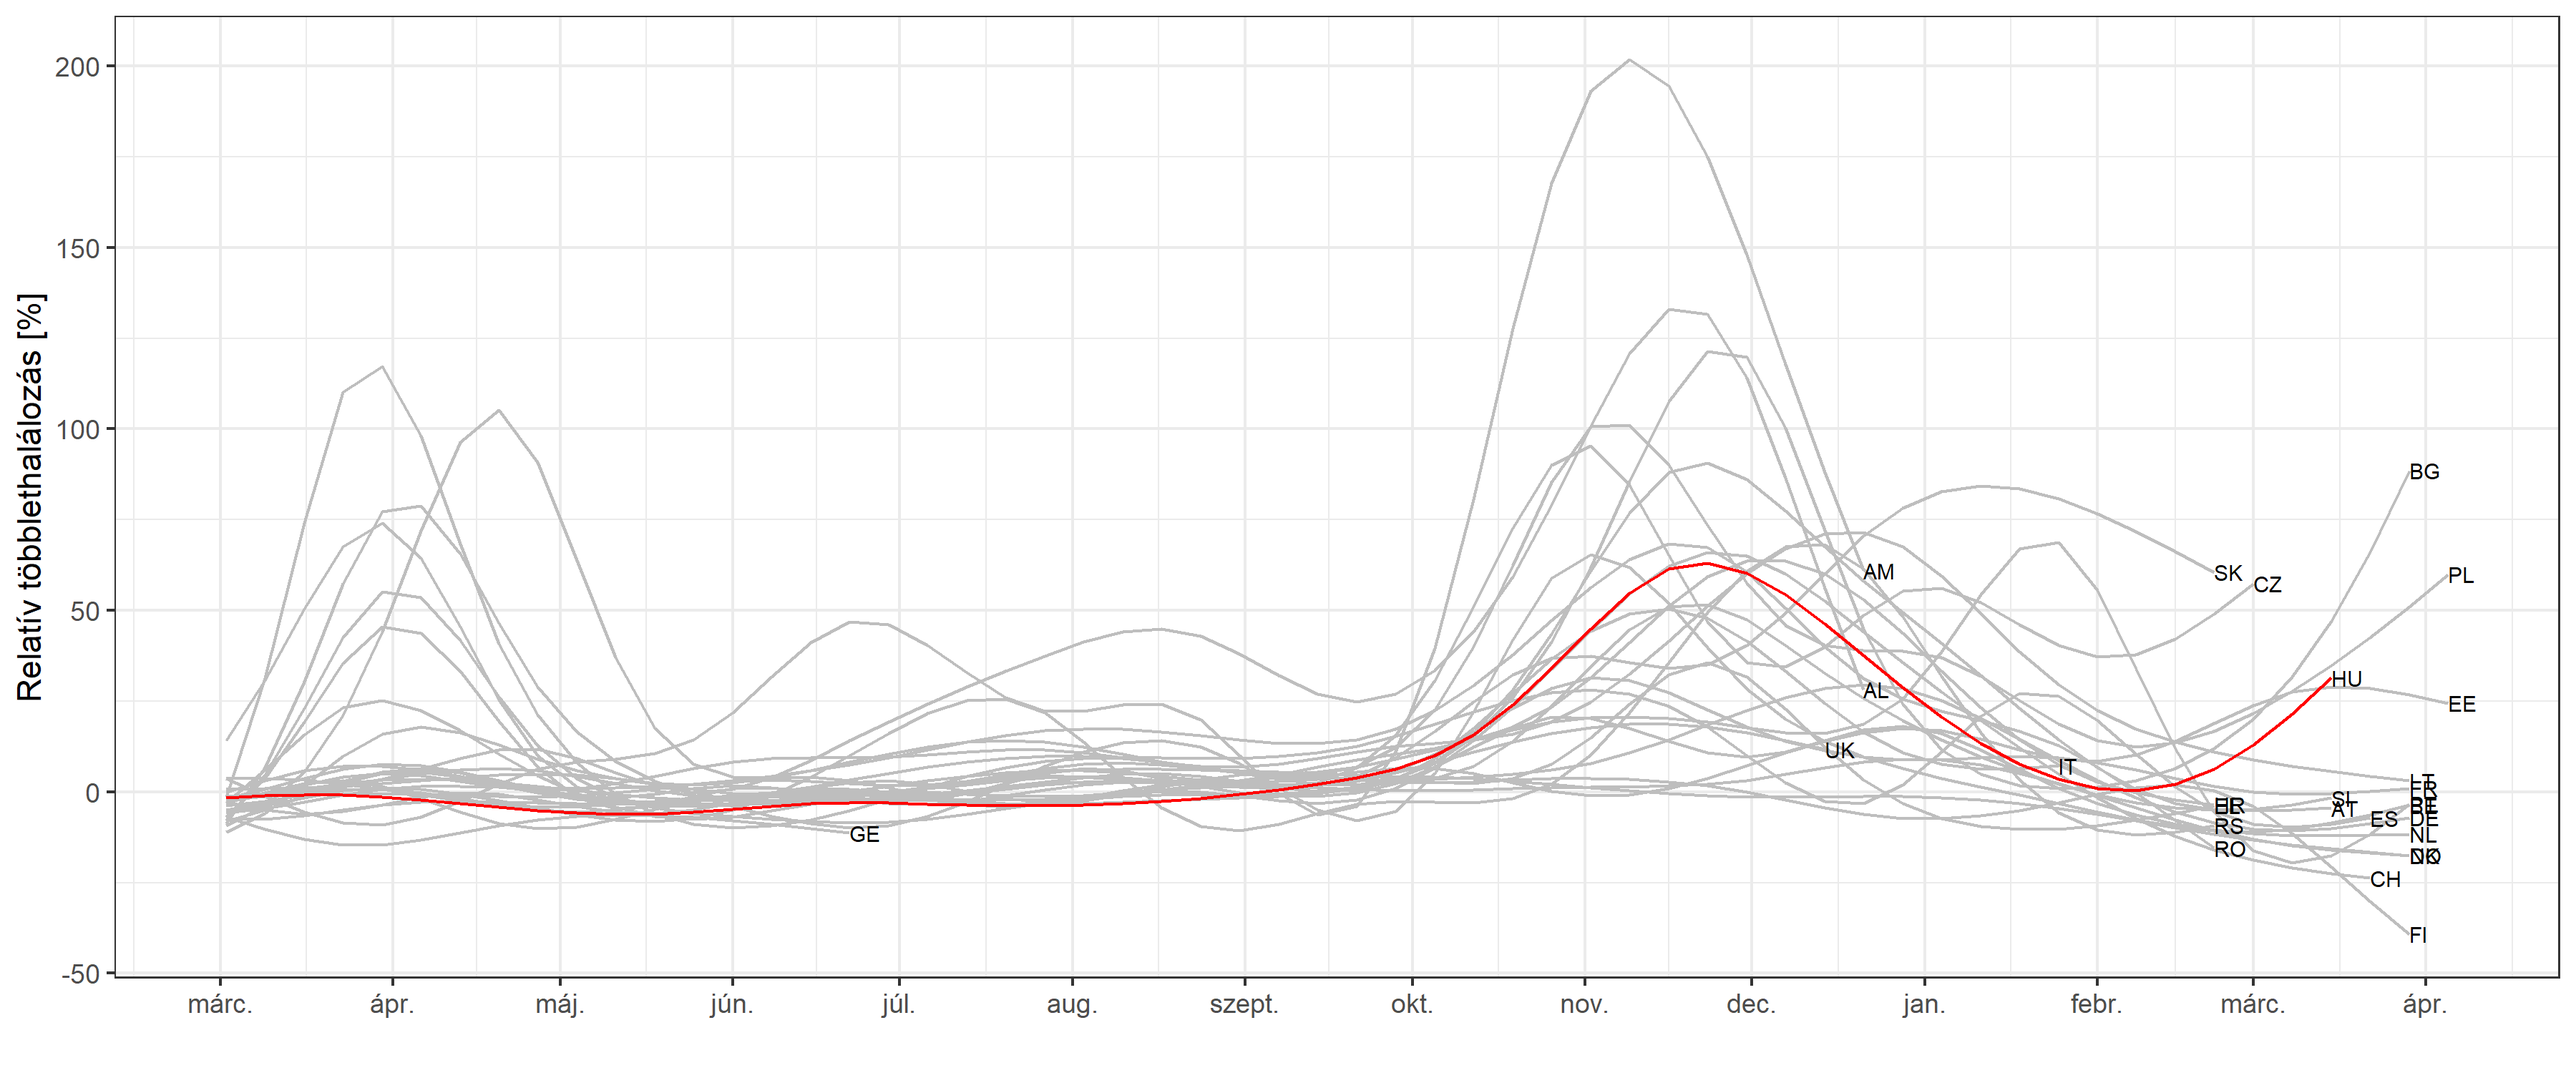
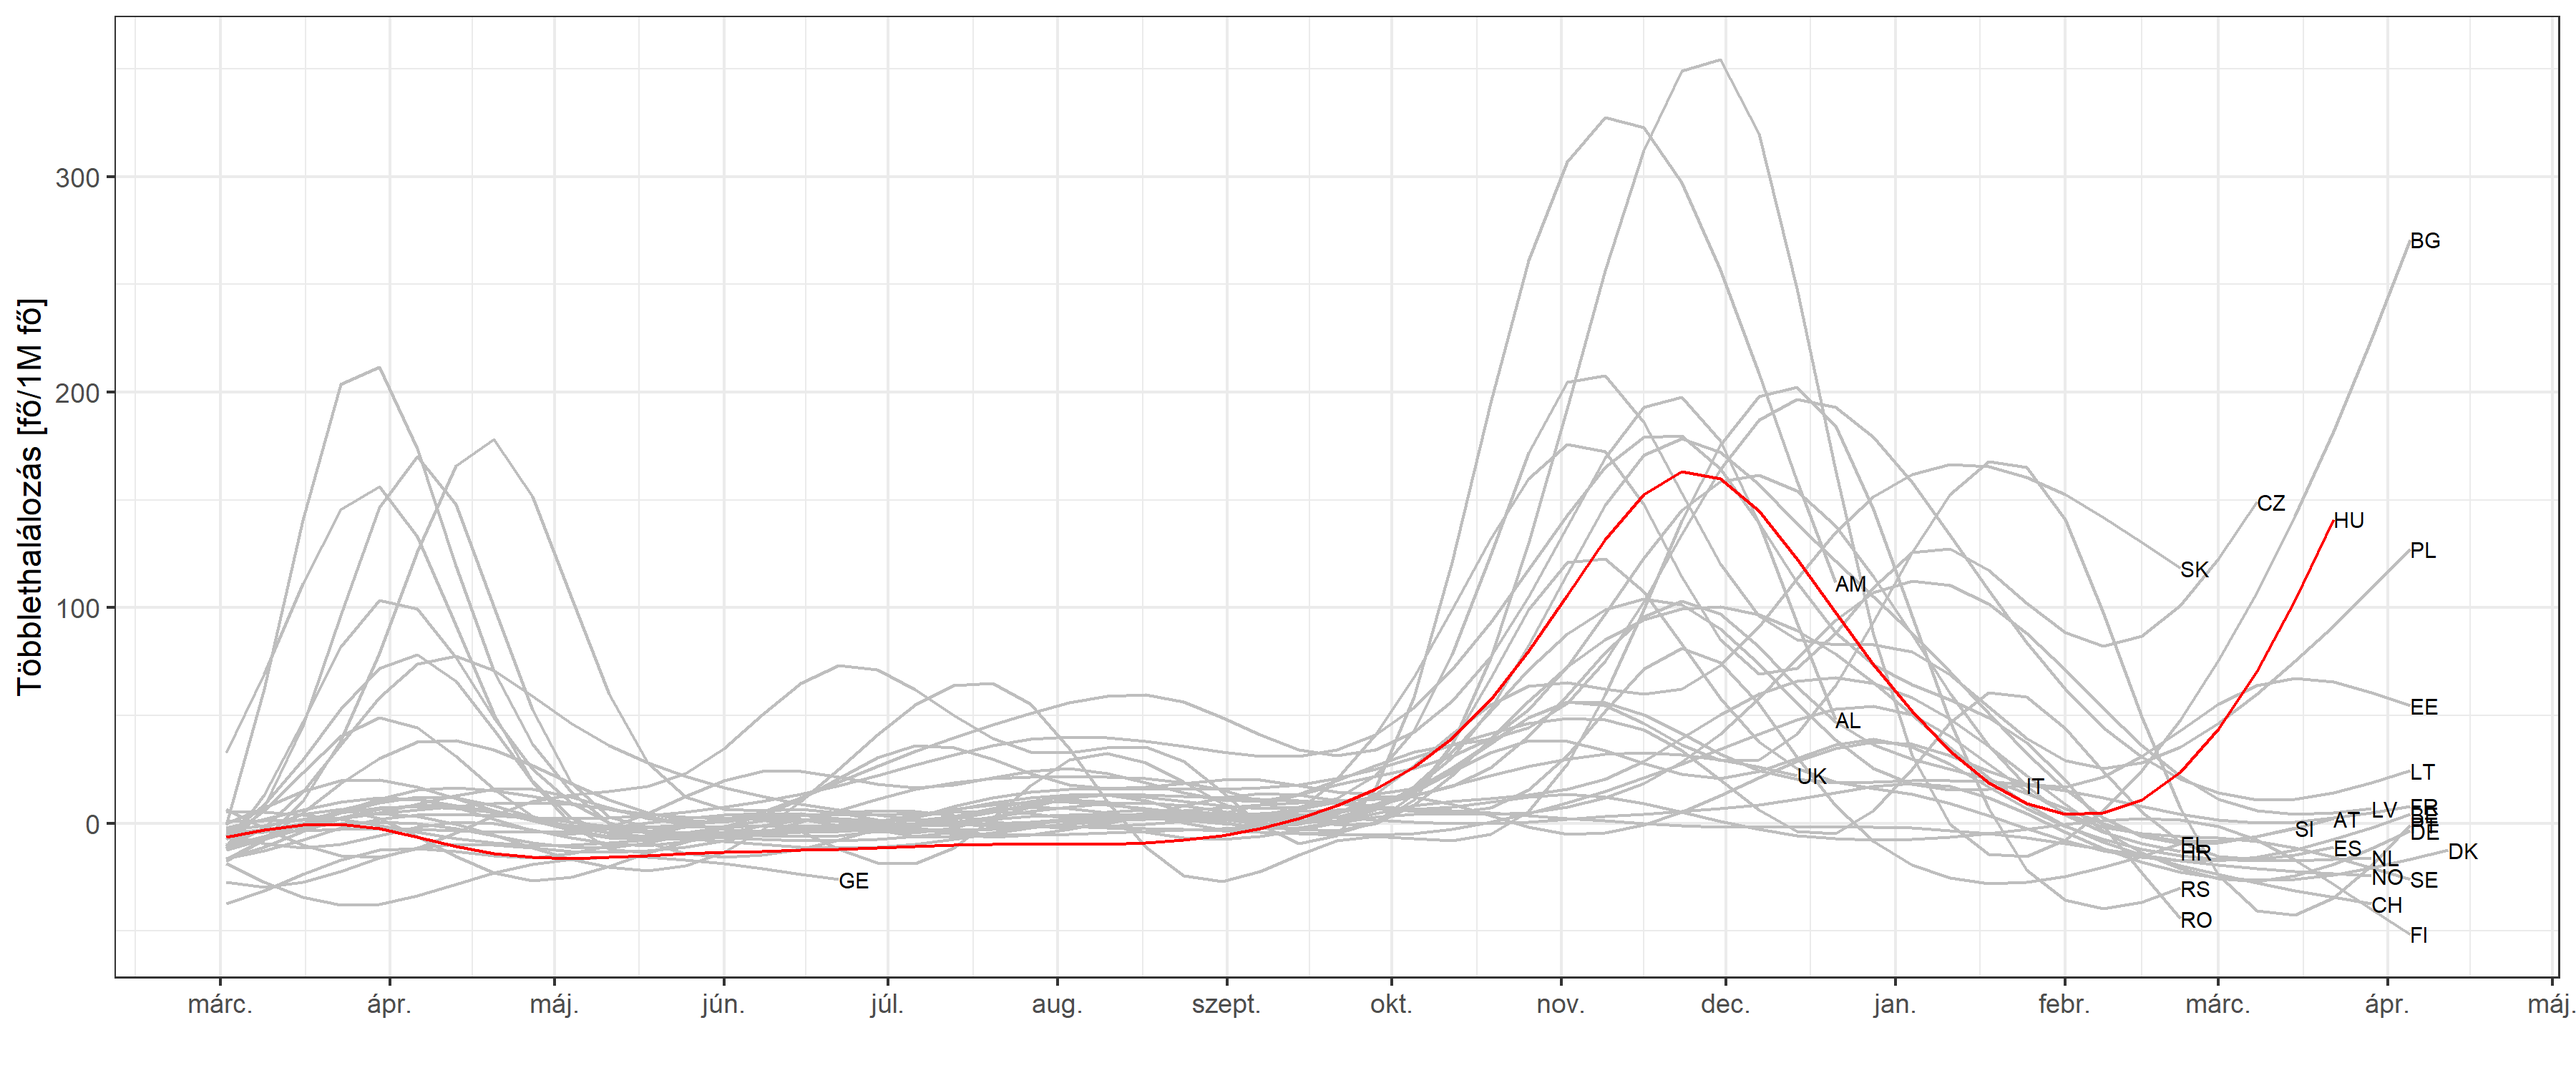
fixes #1

diff --git a/README.md b/README.md
@@ -101,22 +101,20 @@ rögzítve, hogy milyen eljárásrend határozza meg, hogy ezen besorolás
 szerint ki minősül koronavírusos halottnak. Tovább rontja a helyzetet,
 hogy elhangzott ezzel kapcsolatban egy nyilvánvaló nyelvbotlás,
 miszerint „valamennyi olyan elhunytat, akinél a betegség időtartama
-alatt, vagy előtte bármikor
-!
-pozitív személynek regisztráltak, tehát készült nála laboratóriumi
-vizsgálat, ami pozitivitást mutatott, mindenkit beszámolunk az elhunytak
-közé". Ez természetesen – szerencsére – nem igaz, hiszen ha szó szerint
-vennénk, akkor valakit, aki tavaly áprilisban megbetegedett majd
-meggyógyult, majd ma elüti egy autó, azt elvileg koronavírusos
-halottként kellene elszámolni. (Most olyan apróságokról nem beszélve,
-hogy így a koronavírus halálozási aránya, tehát, hogy a fertőzöttek
-mekkora hányada hal bele a betegségbe, garantáltan 100 százalék lenne…)
-Erről természetesen nincs szó, a gyakorlatban senki sem fog törődni
-azzal, hogy egy éve az elgázoltnak volt egy pozitív tesztje, de az
-nagyon fontos lenne, hogy közzé legyen téve, hogy elvileg milyen
-szempontok döntenek abban a kérdésben, hogy kit lehet koronavírusos
-elhunytnak minősíteni. Az európai járványügyi szervezet, az ECDC például
-[azt az
+alatt, vagy előtte bármikor \[!\] pozitív személynek regisztráltak,
+tehát készült nála laboratóriumi vizsgálat, ami pozitivitást mutatott,
+mindenkit beszámolunk az elhunytak közé". Ez természetesen – szerencsére
+– nem igaz, hiszen ha szó szerint vennénk, akkor valakit, aki tavaly
+áprilisban megbetegedett majd meggyógyult, majd ma elüti egy autó, azt
+elvileg koronavírusos halottként kellene elszámolni. (Most olyan
+apróságokról nem beszélve, hogy így a koronavírus halálozási aránya,
+tehát, hogy a fertőzöttek mekkora hányada hal bele a betegségbe,
+garantáltan 100 százalék lenne…) Erről természetesen nincs szó, a
+gyakorlatban senki sem fog törődni azzal, hogy egy éve az elgázoltnak
+volt egy pozitív tesztje, de az nagyon fontos lenne, hogy közzé legyen
+téve, hogy elvileg milyen szempontok döntenek abban a kérdésben, hogy
+kit lehet koronavírusos elhunytnak minősíteni. Az európai járványügyi
+szervezet, az ECDC például [azt az
 ajánlást](https://www.ecdc.europa.eu/en/covid-19/surveillance/surveillance-definitions)
 fogalmazza meg, hogy nem koronavírus a halálok akkor, ha (1) van
 egyértelmű, alternatív, a koronavírustól független mechanizmussal ható
@@ -295,7 +293,7 @@ rosszul.
 
 ## Az európai többlethalálozási adatok elemzése
 
-A számítások aktualizálásának dátuma: 2021-04-19.
+A számítások aktualizálásának dátuma: 2021-04-24.
 
 Elsőként betöltjük a szükséges könyvtárakat:
 
@@ -317,15 +315,49 @@ RawData$year <- as.numeric(substring(RawData$time, 1, 4))
 RawData$week <- as.numeric(substring(RawData$time, 6, 7))
 ```
 
-Kidobjuk a 2002 előtti adatokat, és Svédországot valamint Lettországot,
-így nem marad 99-es (azaz héthez nem rendelt) mortalitási adat:
+A 99-es hét jelenti azokat a halálokat, amiket a kérdéses ország nem
+héthez rendelten jelentett. Ilyen csak kevés országnál fordul elő, és
+ott sem sok halálesettel (a táblázat százalékban adja meg, hogy az
+összes adott évi haláleset mekkora hányada volt 99-es, azaz héthez nem
+rendelt az adott országban):
 
 ``` r
-RawData <- RawData[year>=2002&!geo%in%c("SE", "LV")]
-sum(RawData$week==99)
+knitr::kable(dcast(RawData[,.(values[week==99]/sum(values)*100),.(geo, year)],
+                   year ~ geo, value.var = "V1"), digits = 2)
 ```
 
-    ## [1] 0
+| year |  HU |   LV |   SE |
+|-----:|----:|-----:|-----:|
+| 2000 |   0 | 0.28 | 1.61 |
+| 2001 |   0 | 0.22 | 1.64 |
+| 2002 |  NA | 0.19 | 1.61 |
+| 2003 |  NA | 0.13 | 1.55 |
+| 2004 |  NA | 0.06 | 1.24 |
+| 2005 |  NA | 0.10 | 0.90 |
+| 2006 |  NA | 0.09 | 0.82 |
+| 2007 |  NA | 0.10 | 0.71 |
+| 2008 |  NA | 0.11 | 0.57 |
+| 2009 |  NA | 0.06 | 0.59 |
+| 2010 |  NA | 0.07 | 0.45 |
+| 2011 |  NA | 0.05 | 0.48 |
+| 2012 |  NA | 0.06 | 0.48 |
+| 2013 |  NA |   NA | 0.51 |
+| 2014 |  NA |   NA | 0.55 |
+| 2015 |  NA |   NA | 1.04 |
+| 2016 |  NA |   NA | 2.17 |
+| 2017 |  NA |   NA | 2.43 |
+| 2018 |  NA |   NA | 2.73 |
+| 2019 |  NA |   NA | 2.95 |
+| 2020 |  NA |   NA | 2.67 |
+| 2021 |  NA |   NA | 2.88 |
+
+Éppen ezért – hogy ne kelljen emiatt országokat elhagynunk – egyszerűen
+szétosztjuk egyenletesen ezeket az eseteket a hetek között:
+
+``` r
+RawData[ , values := round(values*sum(values)/sum(values[week!=99])), .(geo, year)]
+RawData <- RawData[week!=99]
+```
 
 Dátumként az adott hét első napját használjuk; fontos, hogy az ISO 8601
 szerinti hétbesorolást használja az Eurostat, amit az `ISOweek` csomag
@@ -426,7 +458,7 @@ ggplot(res, aes(x = date, y = excess/population*1e6, group = geo, label = geo)) 
   theme_bw() + directlabels::geom_dl(method = list("last.points", cex = 0.6))
 ```
 
-![](README_files/figure-gfm/unnamed-chunk-12-1.png)<!-- -->
+![](README_files/figure-gfm/unnamed-chunk-13-1.png)<!-- -->
 
 Az aktuális többlethalálozás (relatív mutató, korábbi adatokra vetítve):
 
@@ -438,7 +470,7 @@ ggplot(res, aes(x = date, y = increase, group = geo, label = geo)) + geom_line(a
   directlabels::geom_dl(method = list("last.points", cex = 0.6))
 ```
 
-![](README_files/figure-gfm/unnamed-chunk-13-1.png)<!-- -->
+![](README_files/figure-gfm/unnamed-chunk-14-1.png)<!-- -->
 
 Látszik, hogy a kétféle relatív mutató között nincs nagy különbség.
 Kicsit direktebben is összevethetjük őket, ha országonként külön-külön
@@ -450,7 +482,7 @@ ggplot(res, aes(x = increase, y = excess/population*1e6)) + geom_line() +
   facet_wrap(~geo) + geom_abline(intercept = 0, slope =  2, alpha = 0.3)
 ```
 
-![](README_files/figure-gfm/unnamed-chunk-14-1.png)<!-- -->
+![](README_files/figure-gfm/unnamed-chunk-15-1.png)<!-- -->
 
 Az ábra az origón átmenő, 2 meredekségű egyenest tünteti fel a
 viszonyítást segítendő. (Miért pont erre illeszkednek jól? E szerint a
@@ -474,7 +506,7 @@ ggplot(res, aes(x = date, y = cumexcess/cumpopulation*1e6, group = geo, label = 
   directlabels::geom_dl(method = list("last.points", cex = 0.6))
 ```
 
-![](README_files/figure-gfm/unnamed-chunk-15-1.png)<!-- -->
+![](README_files/figure-gfm/unnamed-chunk-16-1.png)<!-- -->
 
 Visszatérve a relatív mutatókhoz, érdemes lehet országonként külön-külön
 is ábrázolni, hogy jobban látható legyen, az egyes országok hogyan
@@ -487,7 +519,7 @@ ggplot(res, aes(x = date, y = increase, group = geo)) + geom_line() +
   theme_bw() + facet_wrap(~geo)
 ```
 
-![](README_files/figure-gfm/unnamed-chunk-16-1.png)<!-- -->
+![](README_files/figure-gfm/unnamed-chunk-17-1.png)<!-- -->
 
 Következő lépésben kiszámoljuk a 3 betűs ISO-országkódot, a 2 betűs
 Eurostat kódból, hogy később az OWID adatbázissal lehessen egyesíteni:
@@ -525,7 +557,7 @@ ggplot(melt(res[geo=="HU", .(date, excess = excess/population*1e6,
   scale_x_date(date_breaks = "months", date_labels = "%b")
 ```
 
-![](README_files/figure-gfm/unnamed-chunk-20-1.png)<!-- -->
+![](README_files/figure-gfm/unnamed-chunk-21-1.png)<!-- -->
 
 Vagy a kettő viszonyát (pontosabban annak alakulását időben) az összes
 országra:
@@ -537,7 +569,7 @@ ggplot(res, aes(x = date, y = cumexcess/cumnewdeaths, group = geo)) + geom_line(
   scale_x_date(date_breaks = "2 months", labels = function(z) gsub("^0", "", strftime(z, "%m")))
 ```
 
-![](README_files/figure-gfm/unnamed-chunk-21-1.png)<!-- -->
+![](README_files/figure-gfm/unnamed-chunk-22-1.png)<!-- -->
 
 Ezen az ábrán a többlet és a jelentett halálozás hányadosa látható, a
 piros vonal jelzi a kettő egyenlőségét, tehát a fölötte lévő érték
@@ -556,7 +588,7 @@ ggplot(res[,tail(.SD, 1), .(geo)], aes(x = cumexcess/population*1e6,
   labs(x = "Összesített többlethalálozás [fő/1M fő]", y = "Összesített jelentett halálozás [fő/M fő]")
 ```
 
-![](README_files/figure-gfm/unnamed-chunk-22-1.png)<!-- -->
+![](README_files/figure-gfm/unnamed-chunk-23-1.png)<!-- -->
 
 (Ennél az ábránál és a következőnél nem ugyanaz az időpont van az egyes
 országoknál, hiszen mindegyiknél a saját legrégebbi közölt adata az
@@ -577,7 +609,7 @@ ggplot(res[,.SD[nrow(.SD)-4], .(geo)], aes(x = cumexcess/population*1e6,
   labs(x = "Összesített többlethalálozás [fő/1M fő]", y = "Összesített jelentett halálozás [fő/M fő]")
 ```
 
-![](README_files/figure-gfm/unnamed-chunk-23-1.png)<!-- -->
+![](README_files/figure-gfm/unnamed-chunk-24-1.png)<!-- -->
 
 Látszik, hogy az országok többségében a többlethalálozás meghaladja a
 jelentett (és ahol nem, ott is csak minimális a különbség).
